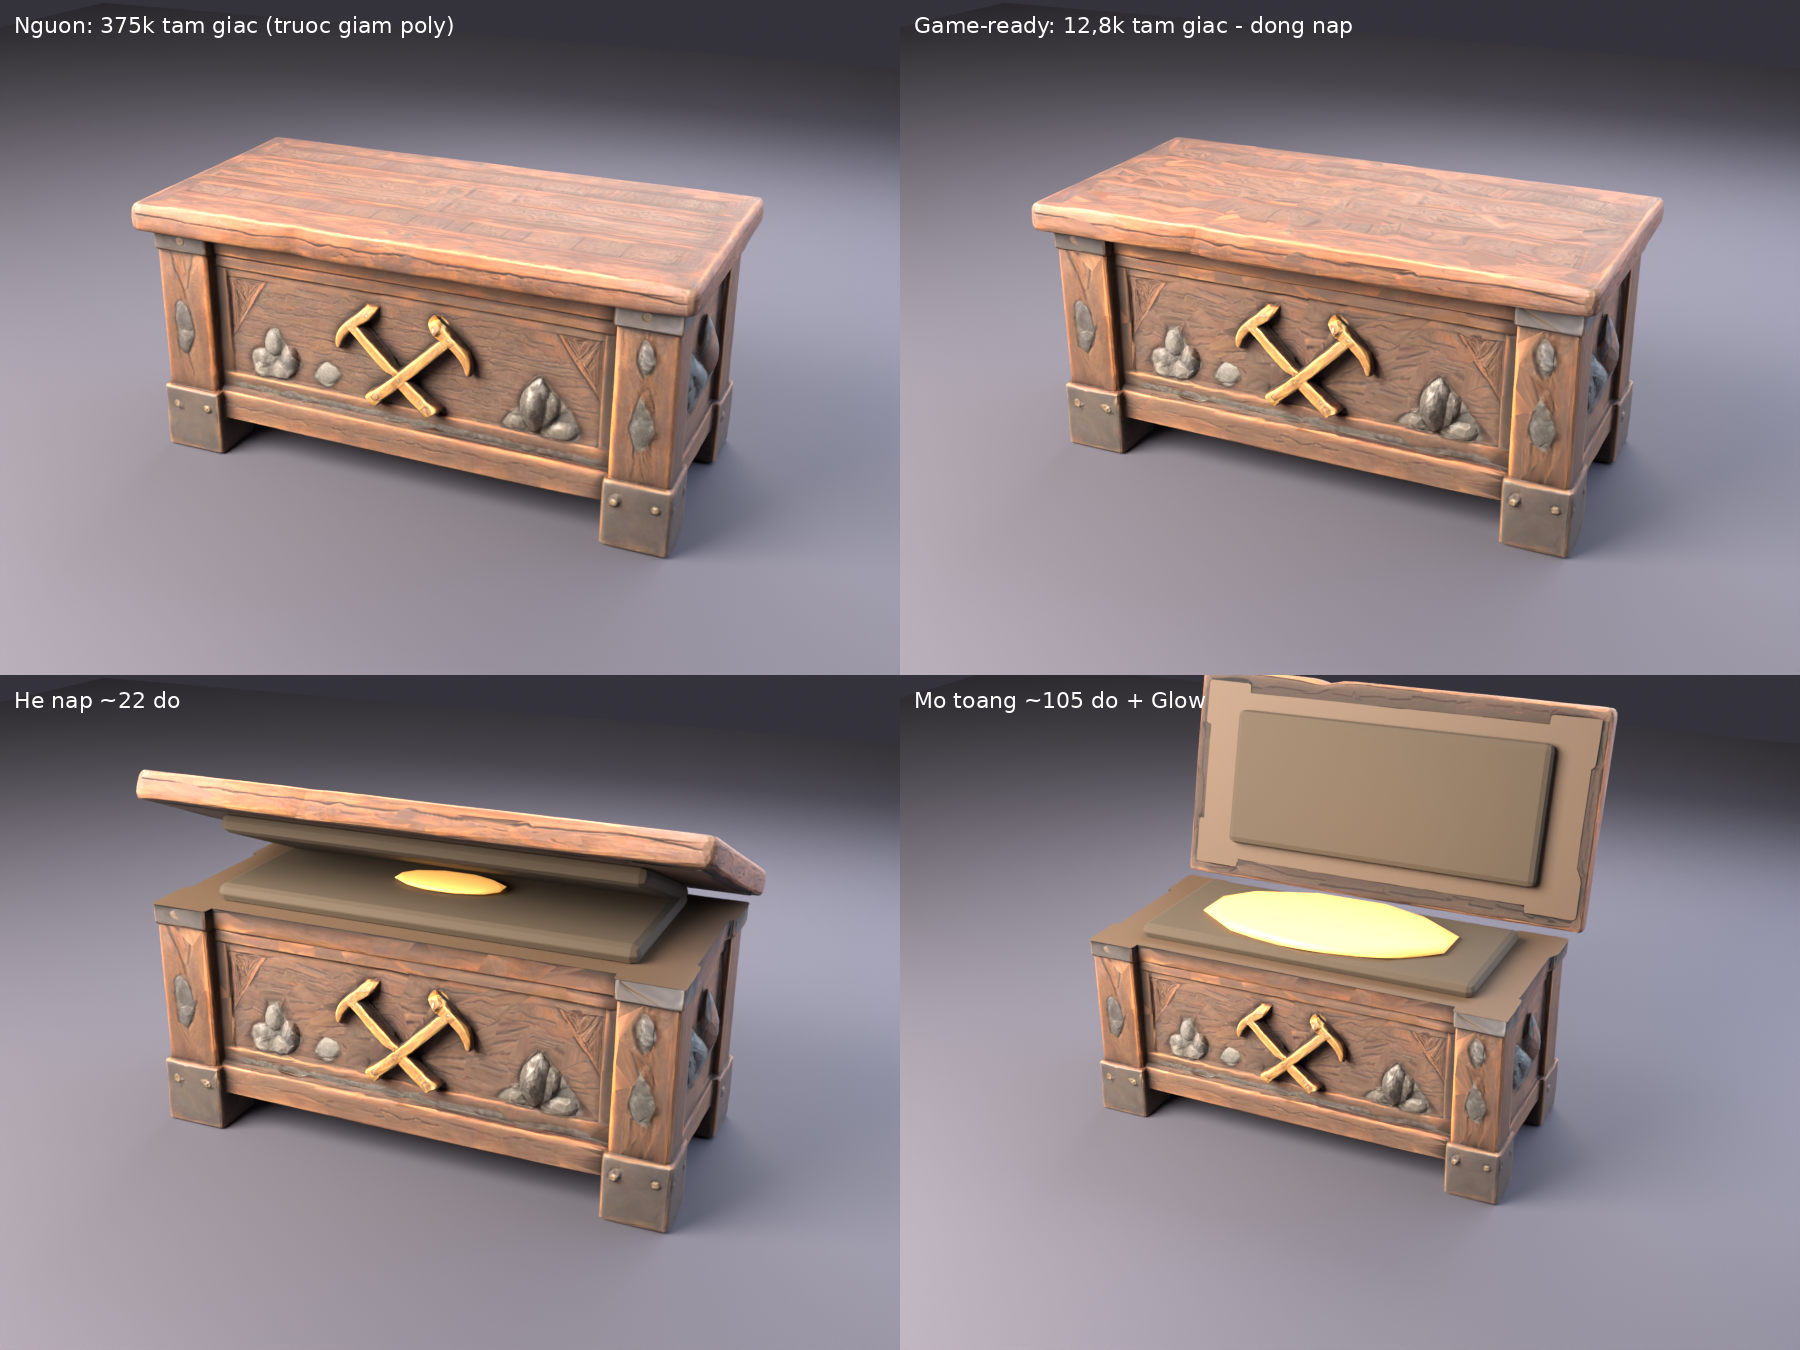
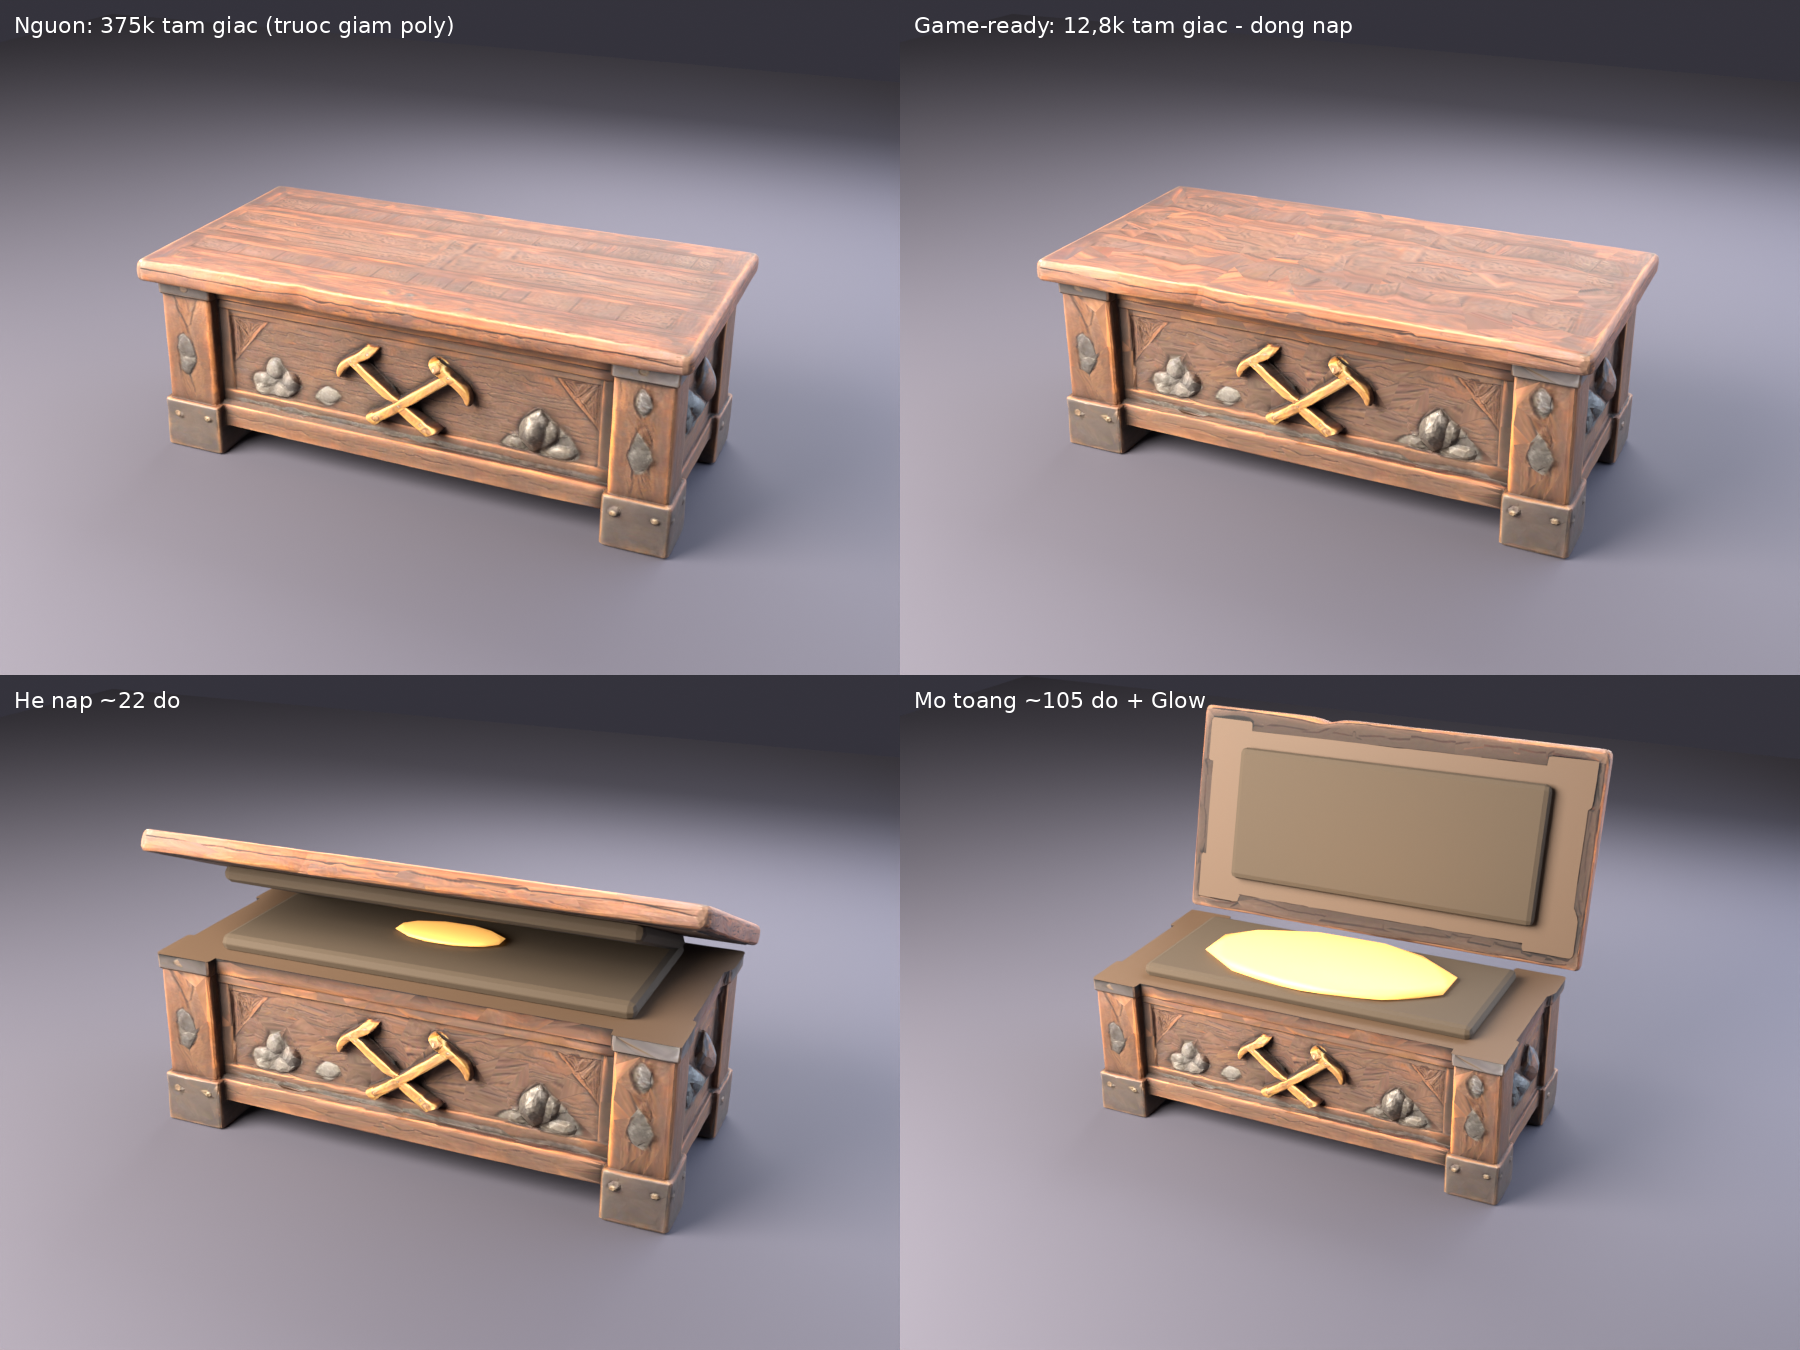
art: Miner chest squashed flatter (0.85 x 0.42 x 0.32 m), --size-xy option
Claude-Session: https://claude.ai/code/session_01QKQCdbciS9Dzvmo3MDmNyh

diff --git a/Tools/Blender/cut_lid_from_meshy_fbx.py b/Tools/Blender/cut_lid_from_meshy_fbx.py
@@ -11,6 +11,7 @@ Run:  python cut_lid_from_meshy_fbx.py -- <dir with fbx + png maps> <out.glb> <r
     --lining r,g,b      lining pad colour, linear 0-1 (default 0.16,0.018,0.03 = burgundy)
     --rim r,g,b         cut-rim colour (default 0.16,0.085,0.04 = dark wood)
     --glow r,g,b        Glow colour (default 1.0,0.82,0.45 = pale gold)
+    --size-xy L,D       target length (X) and depth (Y) in metres; the height still comes from <target height>. Squashes the model non-uniformly (default: uniform scale)
   Source FBX imports Z-up, centred on the origin. The seam is the height (source units) where the lid meets the body;
   find it with a vertex-height histogram or a side render. Front of the chest must face -Y (lock side); the hinge is at +Y.
 Needs Blender (`pip install bpy` works) and Pillow.
@@ -30,6 +31,7 @@ def _rgb(text, default): return tuple(float(c) for c in text.split(",")) if text
 decimate_tris = int(_opt("--decimate-tris", 0))
 lining_rgb = _rgb(_opt("--lining"), (0.16, 0.018, 0.03)); rim_rgb = _rgb(_opt("--rim"), (0.16, 0.085, 0.04))
 glow_rgb = _rgb(_opt("--glow"), (1.0, 0.82, 0.45))
+size_xy = _opt("--size-xy")   # "length,depth" in metres: squash X/Y independently of the height (default: uniform scale)
 
 src_dir, out, name, seam_src, target_h = sys.argv[sys.argv.index("--") + 1:][:5]
 _a = sys.argv[sys.argv.index("--") + 1:] + ["1024", ""]
@@ -56,9 +58,12 @@ zs = [v.co.z for v in obj.data.vertices]
 zmin, zmax = min(zs), max(zs)
 scale = target_h / (zmax - zmin)
 xs = [v.co.x for v in obj.data.vertices]; ys = [v.co.y for v in obj.data.vertices]
-dx = -(min(xs) + max(xs)) / 2 * scale; dy = -(min(ys) + max(ys)) / 2 * scale
+sx = sy = scale
+if size_xy:
+    L, D = [float(c) for c in size_xy.split(",")]; sx = L / (max(xs) - min(xs)); sy = D / (max(ys) - min(ys))
+dx = -(min(xs) + max(xs)) / 2 * sx; dy = -(min(ys) + max(ys)) / 2 * sy
 for v in obj.data.vertices:
-    v.co = mathutils.Vector((v.co.x * scale + dx, v.co.y * scale + dy, (v.co.z - zmin) * scale))
+    v.co = mathutils.Vector((v.co.x * sx + dx, v.co.y * sy + dy, (v.co.z - zmin) * scale))
 seam = (seam_src - zmin) * scale
 print("height", target_h, "seam z", seam)
 
@@ -157,7 +162,7 @@ lid.location = hinge
 # ---- glow (hidden by scale until the lid cracks open) -------------------------
 bpy.ops.mesh.primitive_ico_sphere_add(subdivisions=2, radius=1.0, location=(0, 0, seam + 0.03))
 glow = bpy.context.active_object; glow.name = "Glow"
-w = (max(xs) - min(xs)) * scale; d = (max(ys) - min(ys)) * scale
+w = (max(xs) - min(xs)) * sx; d = (max(ys) - min(ys)) * sy
 glow.scale = (w * 0.30, d * 0.30, 0.02)
 glow.data.materials.append(glow_mat)
 
@@ -165,7 +170,7 @@ glow.data.materials.append(glow_mat)
 key = None
 if keyhole_arg:
     kx, ky, kz = [float(v) for v in keyhole_arg.split(",")]
-    kpos = mathutils.Vector((kx * scale + dx, ky * scale + dy, (kz - zmin) * scale))
+    kpos = mathutils.Vector((kx * sx + dx, ky * sy + dy, (kz - zmin) * scale))
     gold = flat_mat(name + "_KeySilver", (0.84, 0.88, 0.95, 1), 0.22, 1.0)   # silver, so it stands out against the gold lock
     parts = []
     def prim(op, **kw):

diff --git a/Docs/Art/BanGiao3D.md b/Docs/Art/BanGiao3D.md
@@ -196,19 +196,19 @@ Tham số: độ cao đường nối nắp theo đơn vị nguồn (0,03, nằm 
 `Assets/_Project/Art/Chests/Chest_Miner.glb`, **chưa gán chủ đề hay ID rương** vì danh sách chủ đề chưa chốt. Nguồn: `Art/Source/MeshyChests/Miner/` (FBX Meshy của chủ dự án, 369.686 tam giác, không tốn credit mới). Tạo bằng cùng script với Golden, có thêm các tham số tuỳ chọn (mặc định tắt, Golden tái tạo y như cũ):
 
 ```
-python cut_lid_from_meshy_fbx.py -- <thư mục fbx và png> Assets/_Project/Art/Chests/Chest_Miner.glb Chest_Miner 0.376 0.38 1024 "" --decimate-tris 12000 --lining 0.06,0.04,0.022 --rim 0.09,0.05,0.025 --glow 1.0,0.5,0.12
+python cut_lid_from_meshy_fbx.py -- <thư mục fbx và png> Assets/_Project/Art/Chests/Chest_Miner.glb Chest_Miner 0.376 0.32 1024 "" --size-xy 0.85,0.42 --decimate-tris 12000 --lining 0.06,0.04,0.022 --rim 0.09,0.05,0.025 --glow 1.0,0.5,0.12
 ```
 
-- **Tham số cắt:** đường nối nắp z = 0,376 (đơn vị nguồn; Z là trục đứng). Đó là chỗ mép dưới tấm nắp ván bắt đầu loe ra khỏi thân (thân thẳng đứng đến 0,375, nắp loe từ 0,376). Chiều cao đích **0,38 m** (nguồn cao 0,96 nên cả rương co theo 0,396: dài khoảng **0,79 m**, sâu khoảng 0,39 m; Golden cao 0,42, rộng 0,6). Texture 1024. Không có ổ khóa nên bỏ trống tham số vị trí khóa, **không có `Key`**.
+- **Tham số cắt:** đường nối nắp z = 0,376 (đơn vị nguồn; Z là trục đứng). Đó là chỗ mép dưới tấm nắp ván bắt đầu loe ra khỏi thân (thân thẳng đứng đến 0,375, nắp loe từ 0,376). Chủ dự án **cho phép bóp méo**, nên rương được co không đều: cao **0,32 m**, dài **0,85 m**, sâu **0,42 m** (Golden cao 0,42, rộng 0,6; nguồn gốc cao 0,96, dài 2,0, sâu 0,98, tức chiều cao bị nén khoảng 0,78 lần so với chiều dài). Hình cuốc chim và đá hơi dẹt nhưng vẫn nhìn tự nhiên. Texture 1024. Không có ổ khóa nên bỏ trống tham số vị trí khóa, **không có `Key`**.
 - **Hướng:** FBX nhập vào đã có mặt trước là -Y (cuốc chim chéo, đá quặng). Mặt sau (+Y) cũng có cuốc chim, nên sau này đặt rương quay mặt nào cũng đẹp. Không cần xoay.
 - **Giảm poly (Decimate kiểu Collapse, chạy trước khi cắt):** 369.686 xuống 11.998 tam giác. Sau khi cắt: `Body` 11,1 nghìn (gồm mặt cắt và đệm lót), `Lid` 1,7 nghìn, **tổng khoảng 12,8 nghìn** (mục tiêu 8 đến 15 nghìn). Đai sắt, chân sắt và hình cuốc chim còn rõ (ảnh trước/sau cùng khung ở `Art/Source/render_chest_miner_open.png`); mất độ chi tiết của vân ván nắp và các nếp sần nhỏ (phần lớn còn trong normal map). Texture 2048 ép xuống 1024 vẫn nét.
 - **Cấu trúc:** root `Chest_Miner` gồm `Body`, `Lid` (gốc ở **bản lề phía sau**, xoay quanh trục X, tấm nắp ván phẳng dày khoảng 0,1 nguồn), `Glow` (quầng sáng cam ấm, ẩn bằng scale). Đệm lót nâu sẫm kiểu vải bố, viền mặt cắt gỗ rất tối. `BoxOpenSequence` bỏ qua lớp thiếu nên không cần `Key`, `Seal`, `Binding`; chưa kiểm tra giai đoạn "Gỡ niêm" trông thế nào khi không có lớp nào (giống Golden).
-- **Tham số mới của script:** `--decimate-tris N`, `--lining r,g,b`, `--rim r,g,b`, `--glow r,g,b` (màu tuyến tính 0 đến 1). Cũng sửa lỗi nhỏ: đường ra chỉ là tên file không thư mục thì không còn báo lỗi. `Tools/Blender/cycles_chest_preview_setup.py` nay nhận `--glb <file>` và `--size <bề rộng m>`, chịu được rương không có `Key`.
-- **Ảnh xem trước:** `Art/Source/render_chest_miner_open.png` (nguồn gốc, đóng nắp, hé nắp 22 độ, mở toang 105 độ), dựng ngoại tuyến bằng Cycles CPU trong Blender, **không phải ảnh từ Unity**.
+- **Tham số mới của script:** `--decimate-tris N`, `--size-xy dài,sâu` (bóp méo X/Y riêng, mét), `--lining r,g,b`, `--rim r,g,b`, `--glow r,g,b` (màu tuyến tính 0 đến 1). Cũng sửa lỗi nhỏ: đường ra chỉ là tên file không thư mục thì không còn báo lỗi. `Tools/Blender/cycles_chest_preview_setup.py` nay nhận `--glb <file>` và `--size <bề rộng m>`, chịu được rương không có `Key`.
+- **Ảnh xem trước:** `Art/Source/render_chest_miner_open.png` (nguồn gốc 375 nghìn tam giác (cùng kích thước đã bóp), đóng nắp, hé nắp 22 độ, mở toang 105 độ), dựng ngoại tuyến bằng Cycles CPU trong Blender, **không phải ảnh từ Unity**.
 
 **Giới hạn và lưu ý cho chủ dự án:**
 - Chưa chạy trong Unity, chưa tạo prefab, chưa gắn `BoxOpenSequence`; đoạn mã C# (kể cả phần chìa khóa của Golden) **chưa biên dịch**. Chiều mở nắp, vật liệu và ánh sáng trong Unity chưa kiểm chứng (đổi `lidOpenSign` nếu nắp mở ngược).
-- Tỉ lệ do nguồn quyết định (dài : sâu : cao gần 2 : 1 : 1), không dẹt như hình dung ban đầu. Muốn dẹt hơn phải bóp méo mô hình, cần chủ dự án quyết.
+- Tỉ lệ đã bóp méo theo cho phép của chủ dự án (xem trên). Muốn dẹt hơn nữa chỉ cần đổi tham số `<chiều cao>` và `--size-xy`, nhưng hình khắc sẽ méo rõ hơn.
 - Nắp là một tấm ván phẳng dày, khi hé thấy bên trong chỉ là đệm lót phẳng (mô hình nguồn là khối đặc, không có lòng rương thật), giống Golden.
 - Phong cách **thực tế, tối và nhiều chi tiết hơn** hướng low-poly màu trung tính của repo; đứng cạnh đồ low-poly sẽ lệch tông. Chủ dự án cần quyết có giữ hướng này cho rương Meshy hay không.
 - Glow đang có lõi sáng gần trắng vàng trong ảnh dựng vì tông màu của bộ dựng; trong Unity màu sẽ khác.
